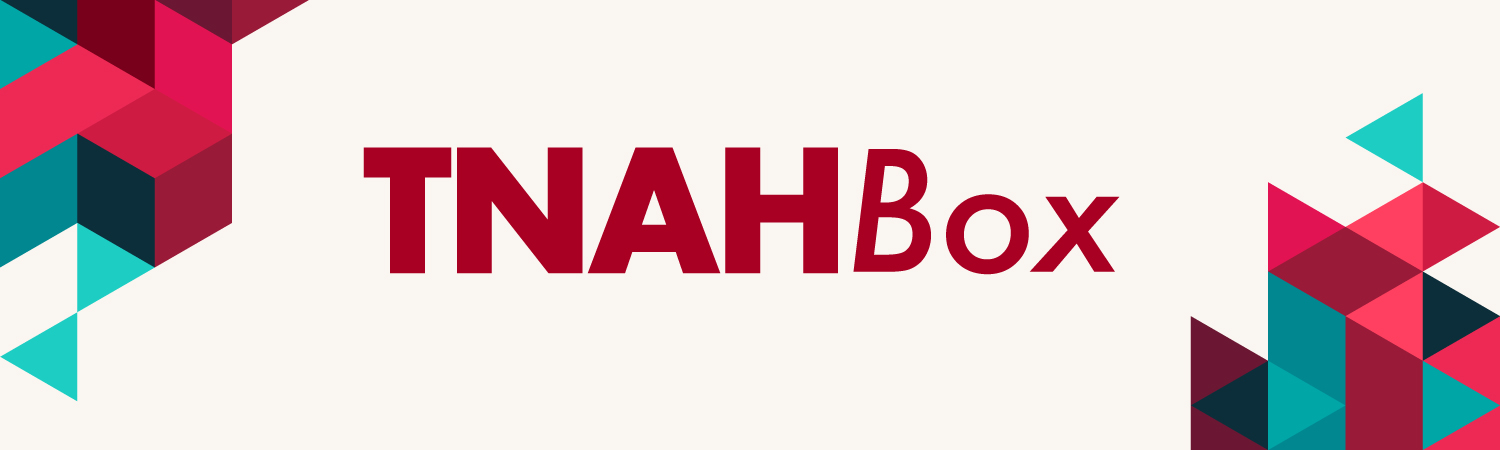
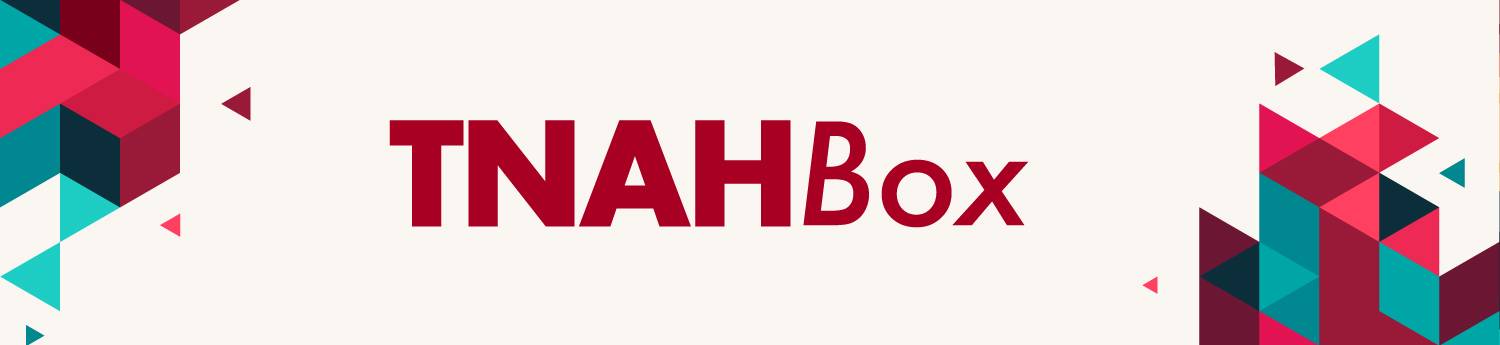
Nouvelle version de la bannière plus étroite

diff --git a/app/templates/conteneur.html b/app/templates/conteneur.html
@@ -35,7 +35,7 @@
             </form>
         </nav>
 
-        <div class="jumbotron jumbotron-fluid" style="height: 600px"  id="banner">
+        <div class="jumbotron jumbotron-fluid" style="height: 200px"  id="banner">
             <div class="container">
             </div>
         </div>
